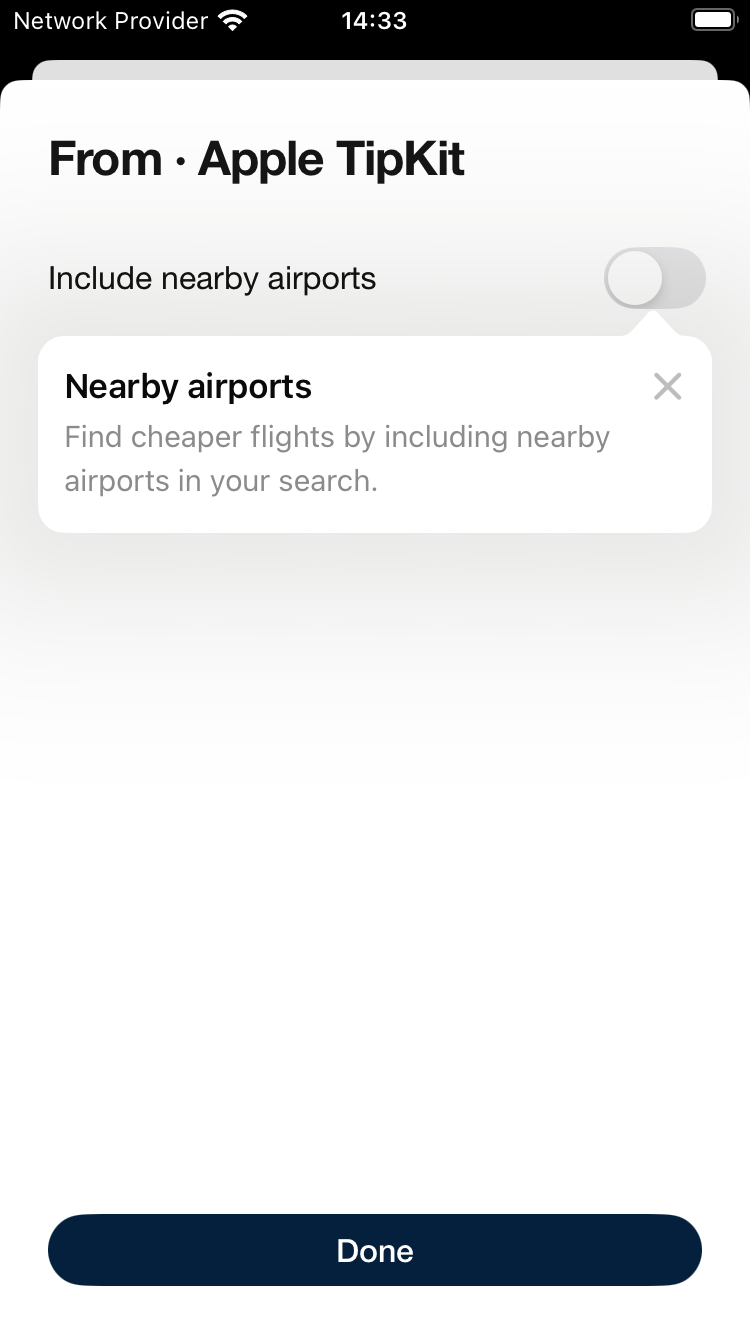
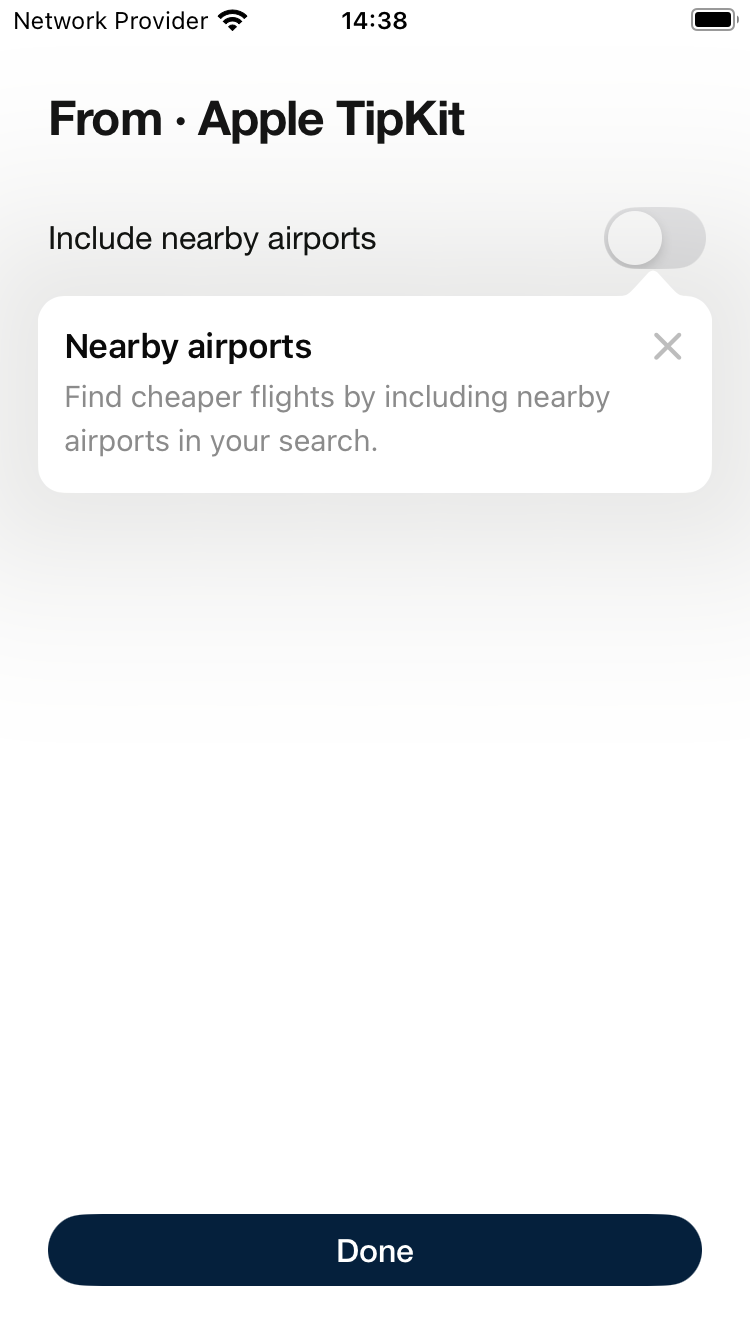
DON-4069 Stabilise basic TipKit demo with normal animations

Changed region(s): [[0.0, 0.0, 1.0, 0.2151], [0.092, 0.2459, 0.828, 0.3688], [0.7973, 0.1537, 0.9507, 0.3073]]

diff --git a/Example/Backpack/SwiftUI/Components/Switch/SwitchExampleView.swift b/Example/Backpack/SwiftUI/Components/Switch/SwitchExampleView.swift
@@ -29,10 +29,6 @@ struct SwitchExampleView: View {
     @State private var isReturningVisit = false
     @State private var tooltipIsPresented = true
 
-    init(assessmentMode: NativeTipKitAssessmentMode? = nil) {
-        _assessmentMode = State(initialValue: assessmentMode)
-    }
-
     private var attributedLabel: AttributedString {
         var label = AttributedString("Switch with styled text")
         label.foregroundColor = Color(.coreAccentColor)
@@ -208,6 +204,7 @@ struct NativeTipKitAssessmentView: View {
     static let message = "Find cheaper flights by including nearby airports in your search."
 
     let mode: NativeTipKitAssessmentMode
+    let opensFromDirectly: Bool
     @Environment(\.dismiss) private var dismiss
     @AppStorage(Self.historyKey) private var hasSeenPopover = false
     @AppStorage(Self.controlledHistoryKey) private var hasSeenControlledTip = false
@@ -217,12 +214,47 @@ struct NativeTipKitAssessmentView: View {
     @State private var isPresented = false
     @State private var tipStatus = "Ready"
     @State private var reopenRequest = 0
+    @State private var hasClosedDirectSelector = false
+
+    init(mode: NativeTipKitAssessmentMode, opensFromDirectly: Bool = false) {
+        self.mode = mode
+        self.opensFromDirectly = opensFromDirectly
+    }
+
     private var tip: NearbyAirportsAssessmentTip {
         NearbyAirportsAssessmentTip(id: mode == .controlledTipKit
             ? "nearby-airports-controlled-tipkit-assessment" : "nearby-airports-tipkit-assessment")
     }
 
     var body: some View {
+        Group {
+            if opensFromDirectly && !hasClosedDirectSelector {
+                selectorContent(.from)
+            } else {
+                assessmentMenu
+            }
+        }
+        .task {
+            if opensFromDirectly {
+                if case .invalidated = tip.status {
+                    isReturningVisit = true
+                } else {
+                    isPresented = true
+                }
+            }
+            for await status in tip.statusUpdates {
+                switch status {
+                case .pending: tipStatus = "Pending"
+                case .available: tipStatus = "Available"
+                case .invalidated:
+                    tipStatus = "Permanently dismissed"
+                    if mode == .controlledTipKit { hasSeenControlledTip = true }
+                }
+            }
+        }
+    }
+
+    private var assessmentMenu: some View {
         VStack(alignment: .leading, spacing: .lg) {
             BPKText(mode.title, style: .heading3)
             if let error = TipKitAssessmentConfiguration.errorMessage {
@@ -237,52 +269,46 @@ struct NativeTipKitAssessmentView: View {
                 .lineLimit(nil)
                 .accessibilityIdentifier("TipKitAssessment.Status")
             Spacer()
-            BPKButton("Back to switches") { dismiss() }
-                .accessibilityIdentifier("TipKitAssessment.CloseAssessment")
+            if !opensFromDirectly {
+                BPKButton("Back to switches") { dismiss() }
+                    .accessibilityIdentifier("TipKitAssessment.CloseAssessment")
+            }
         }
         .padding(.lg)
-        .sheet(item: $selector) { name in
-            VStack(alignment: .leading, spacing: .lg) {
-                BPKText("\(name.rawValue) · \(mode.title)", style: .heading3)
-                HStack(spacing: 0) {
-                    BPKText("Include nearby airports").lineLimit(nil)
-                        .accessibilityHidden(true)
-                    if isReturningVisit {
-                        informationButton
-                    }
-                    Spacer(minLength: BPKSpacing.sm.value)
-                    switchControl
-                }
-                .frame(minHeight: BPKSpacing.xxl.value + BPKSpacing.sm.value)
-                BPKText("Search suggestions stay in place")
-                    .accessibilityIdentifier("TipKitAssessment.ContentBelowSwitch")
-                Spacer()
-                BPKButton("Done") { selector = nil }
-                    .stretchable()
-                    .accessibilityIdentifier("TipKitAssessment.CloseSelector")
+        .sheet(item: $selector) { selectorContent($0) }
+    }
+
+    private func selectorContent(_ name: AssessmentSelector) -> some View {
+        VStack(alignment: .leading, spacing: .lg) {
+            BPKText("\(name.rawValue) · \(mode.title)", style: .heading3)
+            HStack(spacing: 0) {
+                BPKText("Include nearby airports").lineLimit(nil)
+                    .accessibilityHidden(true)
+                if isReturningVisit { informationButton }
+                Spacer(minLength: BPKSpacing.sm.value)
+                switchControl
             }
-            .padding(.lg)
-            .task(id: reopenRequest) {
-                guard reopenRequest > 0, mode == .controlledTipKit else { return }
-                if #available(iOS 26.0, *) {
-                    await tip.resetEligibility()
-                    guard !Task.isCancelled, selector != nil else { return }
-                    isPresented = true
+            .frame(minHeight: BPKSpacing.xxl.value + BPKSpacing.sm.value)
+            BPKText("Search suggestions stay in place")
+                .accessibilityIdentifier("TipKitAssessment.ContentBelowSwitch")
+            Spacer()
+            BPKButton("Done") {
+                if opensFromDirectly && !hasClosedDirectSelector {
+                    hasClosedDirectSelector = true
+                } else {
+                    selector = nil
                 }
             }
+            .stretchable()
+            .accessibilityIdentifier("TipKitAssessment.CloseSelector")
         }
-        .task {
-            if mode == .tipKit && ProcessInfo.processInfo.arguments.contains("TIPKIT_ASSESSMENT_BASIC") {
-                presentSelector(.from)
-            }
-            for await status in tip.statusUpdates {
-                switch status {
-                case .pending: tipStatus = "Pending"
-                case .available: tipStatus = "Available"
-                case .invalidated:
-                    tipStatus = "Permanently dismissed"
-                    if mode == .controlledTipKit { hasSeenControlledTip = true }
-                }
+        .padding(.lg)
+        .task(id: reopenRequest) {
+            guard reopenRequest > 0, mode == .controlledTipKit else { return }
+            if #available(iOS 26.0, *) {
+                await tip.resetEligibility()
+                guard !Task.isCancelled, selector != nil else { return }
+                isPresented = true
             }
         }
     }

diff --git a/Example/Backpack/SceneDelegate.swift b/Example/Backpack/SceneDelegate.swift
@@ -47,7 +47,7 @@ class SceneDelegate: UIResponder, UIWindowSceneDelegate {
     
     private func rootViewController(isUITestRun: Bool) -> UIViewController {
         if #available(iOS 17.0, *), ProcessInfo.processInfo.arguments.contains("TIPKIT_ASSESSMENT_BASIC") {
-            return UIHostingController(rootView: SwitchExampleView(assessmentMode: .tipKit))
+            return UIHostingController(rootView: NativeTipKitAssessmentView(mode: .tipKit, opensFromDirectly: true))
         }
         let presentableNavigator = PresentableNavigator()
         

diff --git a/Example/Backpack NativeUITests/SwitchTooltipUITest.swift b/Example/Backpack NativeUITests/SwitchTooltipUITest.swift
@@ -127,6 +127,7 @@ final class TipKitAssessmentUITest: BackpackUITestCase {
     @MainActor
     func test_givenBasicDemoLaunch_whenTappingSwitchBehindTip_thenRecordsDefaultInteraction() {
         // Given
+        app.launchArguments.removeAll { $0 == "UITests" }
         app.launchArguments.append("TIPKIT_ASSESSMENT_BASIC")
         launchAssessment()
         let robot = TipKitAssessmentRobot(app: app)

diff --git a/Example/TipKitAssessment/README.md b/Example/TipKitAssessment/README.md
@@ -40,7 +40,7 @@ The default TipKit presentation adds a title and uses the system material, arrow
 3. Open **From**, dismiss the introduction, then open **To**. Tap the grey info icon to reopen and dismiss the help. Try the switch while the help is open.
 4. Close and relaunch the app. The introduction stays dismissed and the info icon remains available on subsequent visits.
 
-For a direct launch of the basic iOS 17-compatible example, add `TIPKIT_ASSESSMENT_BASIC` to the Example launch arguments. This opens the From selector automatically using the default TipKit API, without the iOS 26 presentation controls. Combine it with `TIPKIT_ASSESSMENT_RESET` for a fresh introduction. Close the tip, open To, then press the info icon to observe that the dismissed tip cannot reopen.
+For a direct launch of the basic iOS 17-compatible example, add `TIPKIT_ASSESSMENT_BASIC` to the Example launch arguments. This opens the From selector directly in the main window using the default TipKit API, without the iOS 26 presentation controls. The shortcut is verified with normal animations enabled; it avoids presenting the native tip during an animated sheet transition. Combine it with `TIPKIT_ASSESSMENT_RESET` for a fresh introduction. Close the tip, open To, then press the info icon to observe that the dismissed tip cannot reopen.
 
 The other two assessment buttons compare default TipKit and a plain native popover. The iOS 26 option is absent on earlier systems. For a fresh assessment, add `TIPKIT_ASSESSMENT_RESET` to the Example launch arguments for one launch, then remove it. This clears only the dedicated assessment store and assessment history before configuring TipKit. No eligibility-bypass testing APIs are used.
 
